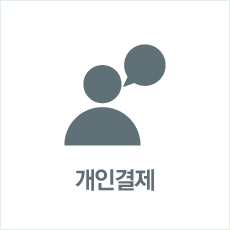
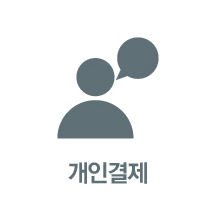
개인결제

diff --git a/theme/54/css/default_shop.css b/theme/54/css/default_shop.css
@@ -175,7 +175,7 @@ box-shadow:0 2px 5px rgba(0,0,0,0.2)}
 /* 중간 레이아웃 */
 #wrapper {z-index:5;margin:0 auto;width:1200px;position:relative;zoom:1}
 #wrapper:after {display:block;visibility:hidden;clear:both;content:""}
-#wrapper_title {padding:30px 0;font-size:2em;font-weight:bold}
+#wrapper_title {padding:20px 0;font-size:2em;font-weight:bold}
 
 .lt_wr {width:49%}
 .lt_wr:nth-child(2n+1) {clear:both}
@@ -323,26 +323,10 @@ button.btn_cancel {display:inline-block;background:#969696;color:#fff;text-decor
 a.btn_frmline, button.btn_frmline {display:inline-block;width:128px;padding:0 5px;height:40px;border:0;background:#434a54;border-radius:3px;color:#fff;text-decoration:none;vertical-align:top} /* 우편번호검색버튼 등 */
 a.btn_frmline {}
 button.btn_frmline {font-size:1em}
-/*.btn_submit {background:#d50c0c;color:#fff;border:0}
-.btn_submit:hover {background:#fd0f0f}
-.btn_address {background:#70aff2;border:1px solid #3476be;height:40px;color:#fff;padding:0 10px;font-size:1.083em;font-weight:bold}
-fieldset .btn_submit {padding:0 7px;height:24px;line-height:1em}
-a.btn_cancel {display:inline-block;padding:7px;border:1px solid #ccc;background:#fafafa;color:#000;text-decoration:none;vertical-align:middle}
-button.btn_cancel {display:inline-block;padding:7px;border:1px solid #ccc;background:#fafafa;color:#000;vertical-align:top;text-decoration:none}
-a.btn_frmline, button.btn_frmline {display:inline-block;padding:0 10px;height:30px;border:1px solid #3476be;color:#3476be;background:#fff;letter-spacing:-0.1em;text-decoration:none;vertical-align:middle} /* 우편번호검색버튼 등 */
 a.btn_frmline {line-height:24px}
-button.btn_frmline {font-size:1em}*/
+button.btn_frmline {font-size:1em}
 
 /* 게시판용 버튼 */
-/*a.btn_b01,.btn_b01 {display:inline-block;background:#4c4f6f;color:#fff;text-decoration:none;vertical-align:middle}
-.btn_b01:hover, .btn_b01:hover {background:#54598c}
-a.btn_b02,.btn_b02 {display:inline-block;background:#828ce8;padding:0 10px;color:#fff;text-decoration:none;border:0;vertical-align:middle}
-a.btn_b02:hover, .btn_b02:hover {background:#656eca}
-a.btn_b03, .btn_b03 {display:inline-block;background:#none;border:1px solid #b9bdd3;color:#646982;background:none;text-decoration:none;vertical-align:middle}
-a.btn_b03:hover, .btn_b03:hover {background:#ebedf6}
-a.btn_admin,.btn_admin {display:inline-block;background:#d13f4a;color:#fff;text-decoration:none;vertical-align:middle;padding:10px} /* 관리자 전용 버튼 */
-/*.btn_admin:hover, a.btn_admin:hover {background:#ff3746}*/
-
 a.btn_b01,.btn_b01 {display:inline-block;color:#bababa;text-decoration:none;vertical-align:middle;border:0;background:transparent}
 .btn_b01:hover, .btn_b01:hover {color:#000}
 a.btn_b02,.btn_b02 {display:inline-block;background:#253dbe;padding:0 10px;color:#fff;text-decoration:none;border:0;vertical-align:middle}
@@ -491,25 +475,6 @@ box-shadow:inset 0 1px 1px rgba(0, 0, 0, .075);
 .text_right {text-align:right !important}
 
 /* 새창 기본 스타일 */
-/*.new_win {position:relative}
-.new_win #win_title {font-size:1.25em;height:50px;line-height:30px;padding:10px 20px;background:#333;color:#fff}
-.new_win #win_title .sv {font-size:0.75em;line-height:1.2em}
-.new_win .win_ul {border-right:1px solid #dfe6e7}
-.new_win .win_ul:after {display:block;visibility:hidden;clear:both;content:""}
-.new_win .win_ul li {float:left;background:#f3f7f7;width:33.333%;text-align:center;border-left:1px solid #dfe6e7;border-bottom:1px solid #dfe6e7;border-top:1px solid #dfe6e7}
-.new_win .win_ul li a {display:block;padding:10px 0}
-.new_win .win_ul .selected {background:#fff;border-bottom-color:#fff;border-top-color:#ae99da}
-.new_win .win_ul .selected a {color:#9781c5}
-.new_win .win_desc {margin:5px 0;font-size:0.92em;color:#3598db}
-.new_win .frm_info {font-size:0.92em;color:#3598db}
-.new_win .win_total {text-align:right;margin:10px 0}
-.new_win .win_total span {display:inline-block;padding:0 5px;color:#777;line-height:26px;border:1px solid #ddd;border-radius:3px;font-size:0.92em}
-.new_win .new_win_con {margin:20px}
-.new_win .new_win_con:after {display:block;visibility:hidden;clear:both;content:""}
-.new_win .btn_confirm:after {display:block;visibility:hidden;clear:both;content:""}
-.new_win .btn_close {position:absolute;top:0;right:0;height:50px;width:50px;background:url('../img/close_btn.gif') no-repeat 50% 50%;border:0;text-indent:-999px;overflow:hidden}
-.new_win .btn_submit {padding:0 20px;height:40px;border-radius:3px;font-weight:bold;font-size:1.083em;float:right}
-.new_win .win_btn {margin:10px 0}*/
 .new_win {position:relative;background:#fff}
 .new_win .tbl_wrap {margin:0 20px}
 .new_win #win_title {font-size:1.3em;height:50px;line-height:30px;padding:10px 20px;background:#fff;color:#000;-webkit-box-shadow:0 1px 10px rgba(0,0,0,.1);
@@ -657,7 +622,7 @@ box-shadow:0 1px 10px rgba(0,0,0,.1)}
 
 
 /* 장바구니 주문서 공통 */
-.od_prd_list .td_chk {/*position:absolute;top:25px;left:0*/}
+.od_prd_list .td_chk {}
 .od_prd_list .td_prd {border-left:0;position:relative;padding-left:120px;min-height:100px}
 .od_prd_list .td_prd .sod_img {position:absolute;top:25px;left:20px}
 .od_prd_list .td_prd .sod_name {min-height:80px}
@@ -701,10 +666,10 @@ margin-top:-150px;border:1px solid #dde7e9;border-radius:3px;background:#fff;ove
 .option_wr select {width:100%;border:1px solid #d4d4d4;height:48px}
 
 #sit_opt_added {margin:0;padding:0;border-bottom:0;list-style:none}
-#sit_opt_added li {padding:10px;background:#fff;border:1px solid #e6e9ed;margin-bottom:10px;position:relative}
+#sit_opt_added li {padding:10px;background:#fff;border:1px solid #e6e9ed;margin:10px 0;position:relative}
 #sit_opt_added li:after {display:block;visibility:hidden;clear:both;content:""}
 #sit_opt_added li .opt_name {line-height:28px;font-weight:bold}
-#sit_opt_added li .opt_count {/*position:absolute;top:50%;right:0;margin-top:-15px*/}
+#sit_opt_added li .opt_count {}
 #sit_opt_added button {float:left;width:30px;height:30px;border:1px solid #bdc9dc;border-radius:0;background:#fff;color:#666;font-size:0.92em}
 #sit_opt_added button:hover {color:#000}
 #sit_opt_added .num_input {float:left;border:0;height:30px;border-top:1px solid #e4e4e4;border-bottom:1px solid #e4e4e4;text-align:center}
@@ -833,7 +798,7 @@ margin-top:-150px;border:1px solid #dde7e9;border-radius:3px;background:#fff;ove
 
 
 /* 주문서 작성  - 결제수단 */
-#sod_frm_pay {position:relative;margin:10px 0 0;background:#fff;border:1px solid #e3e5e8}
+#sod_frm_pay {position:relative;margin:10px 0 0;background:red;border:1px solid #e3e5e8}
 #sod_frm_pay h2 {font-size:1.167em;padding:15px;border-bottom:1px solid #e3e5e8}
 #sod_frm_pay .tooltip_txt {height:auto;line-height:18px;font-weight:normal;font-size:1em;padding:10px 20px;margin:10px}
 #sod_frm_pay .tooltip_txt i {float:left;line-height:36px;font-size:2em;margin-right:15px}
@@ -863,15 +828,11 @@ margin-top:-150px;border:1px solid #dde7e9;border-radius:3px;background:#fff;ove
 #display_pay_button .btn01 {width:100%;height:50px;line-height:38px;font-weight:bold;font-size:1.25em;margin:5px 0;border:1px solid #ccd1d9}
 
 
-
 .display_setup_message {margin:0 0 10px;padding:15px;border:1px solid #fccdff;background:#ffeef9}
 .display_setup_message strong {display:block;margin:0 0 10px}
 
-
 #sod_frm_taker label {display:inline-block}
-
 #sod_frm_same {margin:0 0 10px}
-
 #sod_frm #od_memo {height:50px}
 
 #sod_frm #display_pay_process {text-align:center}
@@ -881,7 +842,6 @@ margin-top:-150px;border:1px solid #dde7e9;border-radius:3px;background:#fff;ove
 #od_tot_price span {float:left;font-weight:bold}
 #od_tot_price strong {font-size:1.5em;color:#ff006c}
 #sod_frm_pay_info {margin:0 0 10px}
-
 
 #sod_frm_pay #sc_coupon_frm, #sod_frm_pay #od_coupon_frm {z-index:10000;position:absolute;top:0;right:0;width:500px;height:auto !important;height:500px;max-height:500px;border:1px solid #000;background:#fff;overflow-y:auto}
 #sod_frm_deli {position:relative;line-height:2em}
@@ -1098,23 +1058,26 @@ html.no-overflowscrolling #sc_coupon_frm, html.no-overflowscrolling #od_coupon_f
 #bo_v_top .btn_admin, #bo_list .btn_admin {padding-top:0}
 
 /*개인결제*/
-.pesonal {background:#f3f3f3;padding:20px}
-.pesonal td {font-weight:bold}
-#personal_pay h2 {font-size:1.167em;margin:0px 0 10px}
-#personal_pay input[type="radio"] {position:absolute;width:0;height:0;overflow:hidden;text-indent:-999px;left:0;z-index:-1px;visibility:hidden}
-#personal_pay .lb_icon {display:inline-block;float:left;width:50%;background:#fff;border:1px solid #eceff4;margin:-1px 0 0 -1px;cursor:pointer;height:60px;position:relative;padding-left:65px;padding-top:20px;z-index:1}
-#personal_pay input[type="radio"]:checked+.lb_icon {border:1px solid #ff006c;z-index:3}
+.pesonal {background:#fff;border:1px solid #e3e5e8;margin-bottom:30px}
+.pesonal h2 {border-bottom:1px solid #e2e4e7;font-size:1.167em;padding:20px}
+.pesonal .tbl_frm01 {padding:20px 10px;margin:0}
+.pesonal tr {display:inline-block;width:100%;padding:0 10px;margin-bottom:20px}
+.pesonal th {display:block;width:auto;text-align:left;padding:10px 0;font-weight:bold}
+.pesonal td {display:block;padding:0}
+.pesonal td input {width:100%}
+.pesonal .half_tr {width:50%}
+
+#personal_pay {background:#fff;border:1px solid #e3e5e8}
+#personal_pay h2 {background:#fff;border-bottom:1px solid #e2e4e7;font-size:1.167em;padding:20px}
+/*#personal_pay input[type="radio"] {position:absolute;width:0;height:0;overflow:hidden;text-indent:-999px;left:0;z-index:-1px;visibility:hidden}*/
+#personal_pay input[type="radio"] {}
+#personal_pay .lb_icon {position:relative;display:inline-block;cursor:pointer;z-index:1}
+#personal_pay input[type="radio"]:checked+.lb_icon {z-index:3}
+
 #personal_pay legend {position:absolute;font-size:0;line-height:0;overflow:hidden}
-#personal_pay .KPAY {background:url('../../../img/kpay.png') no-repeat 50% 50% #fff;overflow:hidden;text-indent:-999px}
-#personal_pay .PAYNOW {background:url('../../../img/paynow.png') no-repeat 50% 50% #fff;overflow:hidden;text-indent:-999px}
-#personal_pay .PAYCO {background:url('../../../img/payco.png') no-repeat 50% 50% #fff;overflow:hidden;text-indent:-999px}
-#personal_pay .kakaopay_icon {background:url('../../../img/kakao.png') no-repeat 50% 50% #f4dc34;overflow:hidden;text-indent:-999px}
-#personal_pay .bank_icon {background:url('../../../img/pay_icon1.png') no-repeat 15px 50% #fff}
-#personal_pay .vbank_icon {background:url('../../../img/pay_icon2.png') no-repeat 15px 50% #fff;padding-top:13px}
-#personal_pay .iche_icon {background:url('../../../img/pay_icon2.png') no-repeat 15px 50% #fff;padding-top:13px}
-#personal_pay .hp_icon {background:url('../../../img/pay_icon3.png') no-repeat 24px 50% #fff}
-#personal_pay .card_icon {background:url('../../../img/pay_icon4.png') no-repeat 17px 50% #fff}
-#personal_pay .btn_submit {width:100%;height:40px;font-weight:bold;font-size:1.25em;margin:10px 0 5px}
-#personal_pay .btn01 {width:100%;height:40px;line-height:38px;font-weight:bold;font-size:1.25em}
-
-
+#personal_pay .KPAY {width:58px;background:url('../../../img/kpay.png') no-repeat 50% 50% #fff;overflow:hidden;text-indent:-999px}
+#personal_pay .PAYNOW {width:75px;background:url('../../../img/paynow.png') no-repeat 50% 50% #fff;overflow:hidden;text-indent:-999px;border-radius:30px}
+#personal_pay .PAYCO {width:75px;background:url('../../../img/payco.png') no-repeat 50% 50% #fff;overflow:hidden;text-indent:-999px;border-radius:30px}
+#personal_pay .kakaopay_icon {width:60px;background:url('../../../img/kakao.png') no-repeat 50% 50% #ffeb00;overflow:hidden;text-indent:-999px;border-radius:30px}
+#personal_pay .pay_way {border-bottom:1px solid #e2e4e7}
+#personal_pay #display_pay_button {border:0}

diff --git a/theme/54/skin/shop/basic/style.css b/theme/54/skin/shop/basic/style.css
@@ -267,17 +267,16 @@
 .sct_pv .sct_li {position:relative;float:left;margin:0 15px 15px 0}
 .sct_pv .sct_last {margin:0 0 15px !important}
 .sct_pv .sct_clear {clear:both}
-.sct_pv .sct_a {display:inline-block;position:relative;text-decoration:none}
+.sct_pv .sct_a {display:inline-block;position:relative;text-decoration:none;font-size:1.1em}
 .sct_pv .sct_a:focus, .sct_pv .sct_a:hover {text-decoration:none}
 .sct_pv .sct_img {margin:0 0 10px}
 .sct_pv .sct_txt {margin:0 0 5px}
 .sct_pv .sct_icon {margin:0 0 10px}
 .sct_pv .sct_id {display:block;margin:0 0 5px}
 .sct_pv .sct_basic {margin:0 0 10px}
-.sct_pv .sct_cost {display:block;margin:0 0 10px;font-weight:bold}
+.sct_pv .sct_cost {display:block;margin:5px 0 10px;font-size:1.25em;font-weight:bold}
 .sct_pv .sct_cost strike {display:block;margin:0 0 5px;color:#999;font-weight:normal}
 .sct_pv .sct_sns {}
-
 
 /* 메인 상품 목록 스킨 10 */
 .smt_10 {margin:0 -5px}
@@ -390,16 +389,17 @@
 .sct_admin a {}
 
 /* 상품 목록 현재 위치 */
-#sct_location {padding:12px 0}
+#sct_location {display:inline-block;float:right;padding:12px 0}
 #sct_location .go_home {display:inline-block;font-size:1.4em;color:#a2a2a2;line-height:26px;text-decoration:none;vertical-align:bottom}
 #sct_location i {vertical-align:middle;font-size:1.2em;color:#a2a2a2;display:inline-block;margin:0 5px}
 #sct_location select {border:1px solid #d3d3d3;height:26px;padding:0 5px}
+.view_location {float:left !important}
 
 .sct_here {font-weight:bold}
 .sct_bg {padding-right:15px !important;background:url('img/sct_bg_toright.gif') right 50% no-repeat}
 
 /* 상품 목록 카테고리 목록 */
-.sct_ct {margin:10px 0 20px;background:#fff;border:1px solid #d3d3d3;border-top:2px solid #000;padding:10px}
+.sct_ct {clear:both;margin:10px 0 20px;background:#fff;border:1px solid #d3d3d3;border-top:2px solid #000;padding:10px}
 .sct_ct h2 {position:absolute;font-size:0;line-height:0;overflow:hidden}
 .sct_ct ul:after {display:block;visibility:hidden;clear:both;content:""}
 .sct_ct a {text-decoration:none}
@@ -417,7 +417,7 @@
 #sct_ct_3 li {float:left;margin:0 10px 10px 0;width:120px}
 
 /* 상품 정렬 리스트 스타일 선택 공통 */
-#sct_sortlst {background:#fff;border:1px solid #e3e5e8;zoom:1}
+#sct_sortlst {clear:both;background:#fff;border:1px solid #e3e5e8;zoom:1}
 #sct_sortlst:after {display:block;visibility:hidden;clear:both;content:""}
 
 /* 상품 정렬 */
@@ -447,7 +447,7 @@
 .sit_empty {padding:60px 0;text-align:center}
 
 /* 상품 상세보기 - 개요 */
-#sit_ov_from {background:#fff;border-bottom:1px solid #e3e3e3}
+#sit_ov_from {background:#fff;border-bottom:1px solid #e3e3e3;clear:both}
 #sit_ov_wrap {width:1200px;margin:0 auto;padding:45px 45px 0;border-top:1px solid #e3e3e3}
 #sit_ov_wrap:after {display:block;visibility:hidden;clear:both;content:""}
 

diff --git a/shop/personalpayform.sub.php b/shop/personalpayform.sub.php
@@ -15,10 +15,10 @@ require_once(G5_SHOP_PATH.'/'.$default['de_pg_service'].'/orderform.1.php');
     require_once(G5_SHOP_PATH.'/'.$default['de_pg_service'].'/orderform.2.php');
     ?>
 
-    <section id="sod_frm_pay" class="pesonal sod_left ">
+    <section class="pesonal sod_left"><!-- id="sod_frm_pay" -->
         <h2>개인결제정보</h2>
 
-        <div class="tbl_frm01 tbl_wrap ">
+        <div class="tbl_frm01 tbl_wrap">
             <table>
             <tbody>
             <?php if(trim($pp['pp_content'])) { ?>
@@ -31,23 +31,21 @@ require_once(G5_SHOP_PATH.'/'.$default['de_pg_service'].'/orderform.1.php');
                 <th>결제금액</th>
                 <td><?php echo display_price($pp['pp_price']); ?></td>
             </tr>
-            <tr>
+            <tr class="half_tr">
                 <th scope="row"><label for="pp_name">이름<strong class="sound_only"> 필수</strong></label></th>
                 <td><input type="text" name="pp_name" value="<?php echo get_text($pp['pp_name']); ?>" id="pp_name" required class="required frm_input"></td>
+            </tr>
+            <tr class="half_tr">
+                <th scope="row"><label for="pp_hp">휴대폰</label></th>
+                <td><input type="text" name="pp_hp" value="<?php echo get_text($member['mb_hp']); ?>" id="pp_hp" required class="required frm_input"></td>
             </tr>
             <tr>
                 <th scope="row"><label for="pp_email">이메일<strong class="sound_only"> 필수</strong></label></th>
                 <td><input type="text" name="pp_email" value="<?php echo $member['mb_email']; ?>" id="pp_email" required class="required frm_input" size="30"></td>
             </tr>
-            <tr>
-                <th scope="row"><label for="pp_hp">휴대폰</label></th>
-                <td><input type="text" name="pp_hp" value="<?php echo get_text($member['mb_hp']); ?>" id="pp_hp" required class="required frm_input"></td>
-            </tr>
             </tbody>
             </table>
         </div>
-
-        
     </section>
 
     <div class="sod_right" id="personal_pay">
@@ -65,35 +63,55 @@ require_once(G5_SHOP_PATH.'/'.$default['de_pg_service'].'/orderform.1.php');
             echo '<fieldset id="sod_frm_paysel">';
             echo '<legend>결제방법 선택</legend>';
         }
+		?>
+	
+		<ul class="pay_way">
+			<li>
+			<?php
+	        // 가상계좌 사용
+	        if ($default['de_vbank_use']) {
+	            $multi_settle++;
+	            echo '<input type="radio" id="pp_settle_vbank" name="pp_settle_case" value="가상계좌" '.$checked.'> <label for="pp_settle_vbank" class="lb_icon">'.$escrow_title.'가상계좌</label>'.PHP_EOL;
+	            $checked = '';
+	        }
+			?>
+			</li>
+			
+			<li>
+			<?php
+	        // 계좌이체 사용
+	        if ($default['de_iche_use']) {
+	            $multi_settle++;
+	            echo '<input type="radio" id="pp_settle_iche" name="pp_settle_case" value="계좌이체" '.$checked.'> <label for="pp_settle_iche" class="lb_icon">'.$escrow_title.'계좌이체</label>'.PHP_EOL;
+	            $checked = '';
+	        }
+			?>
+			</li>
+			
+			<li>
+			<?php
+	        // 휴대폰 사용
+	        if ($default['de_hp_use']) {
+	            $multi_settle++;
+	            echo '<input type="radio" id="pp_settle_hp" name="pp_settle_case" value="휴대폰" '.$checked.'> <label for="pp_settle_hp" class="lb_icon">휴대폰</label>'.PHP_EOL;
+	            $checked = '';
+	        }
+			?>
+			</li>
+		
+			<li>
+			<?php
+	        // 신용카드 사용
+	        if ($default['de_card_use']) {
+	            $multi_settle++;
+	            echo '<input type="radio" id="pp_settle_card" name="pp_settle_case" value="신용카드" '.$checked.'> <label for="pp_settle_card" class="lb_icon">신용카드</label>'.PHP_EOL;
+	            $checked = '';
+	        }
+			?>
+			</li>
+		</ul>
 
-        // 가상계좌 사용
-        if ($default['de_vbank_use']) {
-            $multi_settle++;
-            echo '<input type="radio" id="pp_settle_vbank" name="pp_settle_case" value="가상계좌" '.$checked.'><label for="pp_settle_vbank" class="lb_icon vbank_icon">'.$escrow_title.'가상계좌</label>'.PHP_EOL;
-            $checked = '';
-        }
-
-        // 계좌이체 사용
-        if ($default['de_iche_use']) {
-            $multi_settle++;
-            echo '<input type="radio" id="pp_settle_iche" name="pp_settle_case" value="계좌이체" '.$checked.'><label for="pp_settle_iche" class="lb_icon vbank_icon">'.$escrow_title.'계좌이체</label>'.PHP_EOL;
-            $checked = '';
-        }
-
-        // 휴대폰 사용
-        if ($default['de_hp_use']) {
-            $multi_settle++;
-            echo '<input type="radio" id="pp_settle_hp" name="pp_settle_case" value="휴대폰" '.$checked.'> <label for="pp_settle_hp"  class="lb_icon hp_icon">휴대폰</label>'.PHP_EOL;
-            $checked = '';
-        }
-
-        // 신용카드 사용
-        if ($default['de_card_use']) {
-            $multi_settle++;
-            echo '<input type="radio" id="pp_settle_card" name="pp_settle_case" value="신용카드" '.$checked.'> <label for="pp_settle_card"  class="lb_icon card_icon">신용카드</label>'.PHP_EOL;
-            $checked = '';
-        }
-
+		<?php
         if ($default['de_vbank_use'] || $default['de_iche_use'] || $default['de_card_use'] || $default['de_hp_use']) {
         echo '</fieldset>';
 
@@ -113,7 +131,6 @@ require_once(G5_SHOP_PATH.'/'.$default['de_pg_service'].'/orderform.1.php');
         }
         ?>
     </div>
-
 </form>
 
 

diff --git a/theme/54/skin/shop/basic/navigation.skin.php b/theme/54/skin/shop/basic/navigation.skin.php
@@ -36,7 +36,7 @@ add_stylesheet('<link rel="stylesheet" href="'.G5_SHOP_CSS_URL.'/style.css">', 0
     <?php echo $navigation; ?>
 </div> -->
 
-<div id="sct_location">
+<div id="sct_location"> <!-- class="view_location" --> <!-- view_location는 리스트 말고 상품보기에서만 표시 -->
     <a href='<?php echo G5_SHOP_URL; ?>/' class="go_home"><span class="sound_only">메인으로</span><i class="fa fa-home" aria-hidden="true"></i></a>
     <i class="fa fa-angle-right" aria-hidden="true"></i>
     <select>

diff --git a/shop/personalpay.php b/shop/personalpay.php
@@ -18,10 +18,10 @@ include_once('./_head.php');
     $list_file = G5_SHOP_SKIN_PATH.'/personalpay.skin.php';
     if (file_exists($list_file)) {
 
-        $list_mod   = 4;
+        $list_mod   = 5;
         $list_row   = 5;
-        $img_width  = 230;
-        $img_height = 230;
+        $img_width  = 215;
+        $img_height = 215;
 
         $sql_common = " from {$g5['g5_shop_personalpay_table']}
                         where pp_use = '1'
